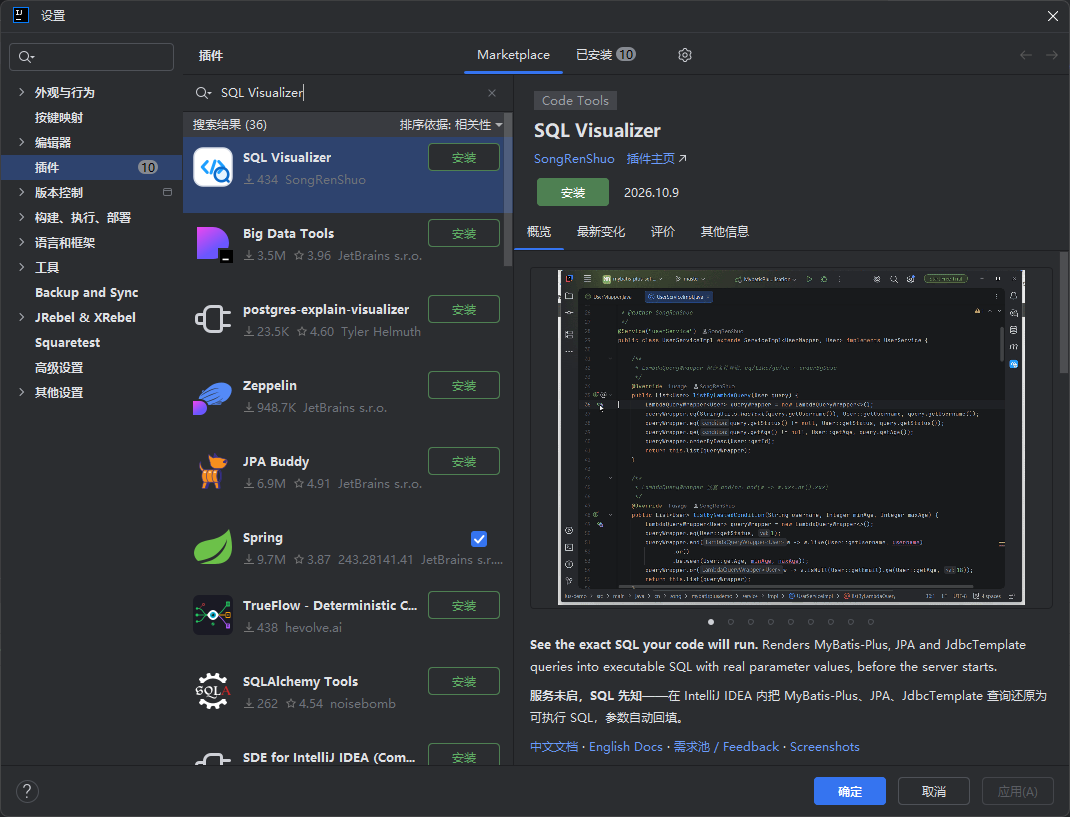
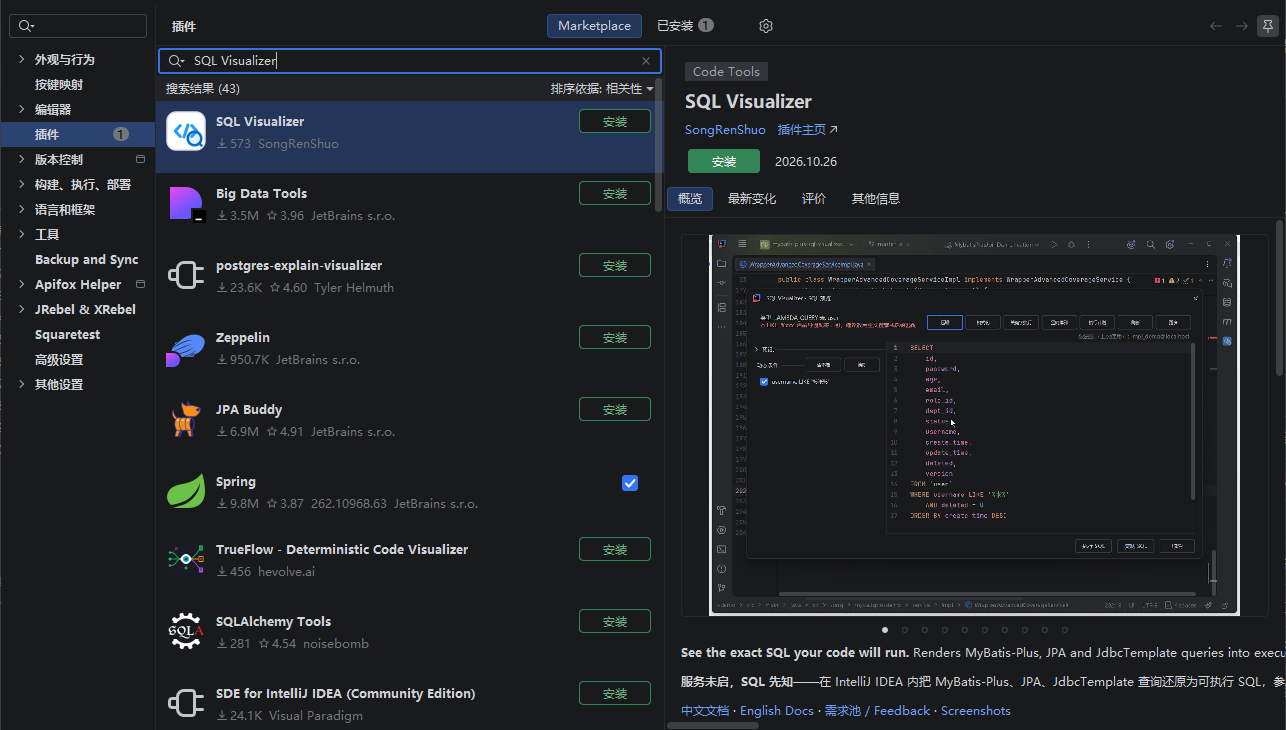
docs(guide): 替换安装截图为无水印新版并移除 alt 中的下载量
public/demo/install-marketplace.png 换为用户在真实 IDE 里的新截图
（1286×730）。旧图两处问题：内嵌预览区右上角带 Start Free Trial 水印，
以及 alt 文本写死的「下载量 434」早已过期（当前实际 546）。

新图裁掉了底部「确定/取消/应用」按钮行与内嵌预览区，保留左侧设置树、
Marketplace 页签、搜索框、结果列表与右侧安装按钮——正好对应读者需要
知道的「在哪搜、搜什么、点哪里」。

alt 文本同时去掉下载量：该数字每次截图都会变，写进 alt 只会反复过期。
中英两处（guide/getting-started.md、en/guide/getting-started.md）同步。

验证：check-en-parity 中英清单一致；npm run build 退出码 0，index 46 页。

diff --git a/en/guide/getting-started.md b/en/guide/getting-started.md
@@ -13,7 +13,7 @@ Get up and running with SQL Visualizer in 3 minutes.
 3. Click <kbd>Install</kbd>
 4. Restart IDE
 
-![Searching "SQL Visualizer" in the Marketplace: the first result is this plugin (author SongRenShuo, 434 downloads), and the detail pane on the right carries the Install button and the version number](/demo/install-marketplace.png)
+![Searching "SQL Visualizer" in the Marketplace: the first result is this plugin (author SongRenShuo), and the detail pane on the right carries the Install button and the version number](/demo/install-marketplace.png)
 
 ### Method 2: Manual Download & Install
 

diff --git a/guide/getting-started.md b/guide/getting-started.md
@@ -13,7 +13,7 @@
 3. 点击 <kbd>Install</kbd> 安装
 4. 重启 IDE 生效
 
-![Marketplace 里搜索 SQL Visualizer：结果首条即本插件（作者 SongRenShuo、下载量 434），右侧详情页带「安装」按钮与版本号](/demo/install-marketplace.png)
+![Marketplace 里搜索 SQL Visualizer：结果首条即本插件（作者 SongRenShuo），右侧详情页带「安装」按钮与版本号](/demo/install-marketplace.png)
 
 ### 方式二：手动下载插件安装
 
